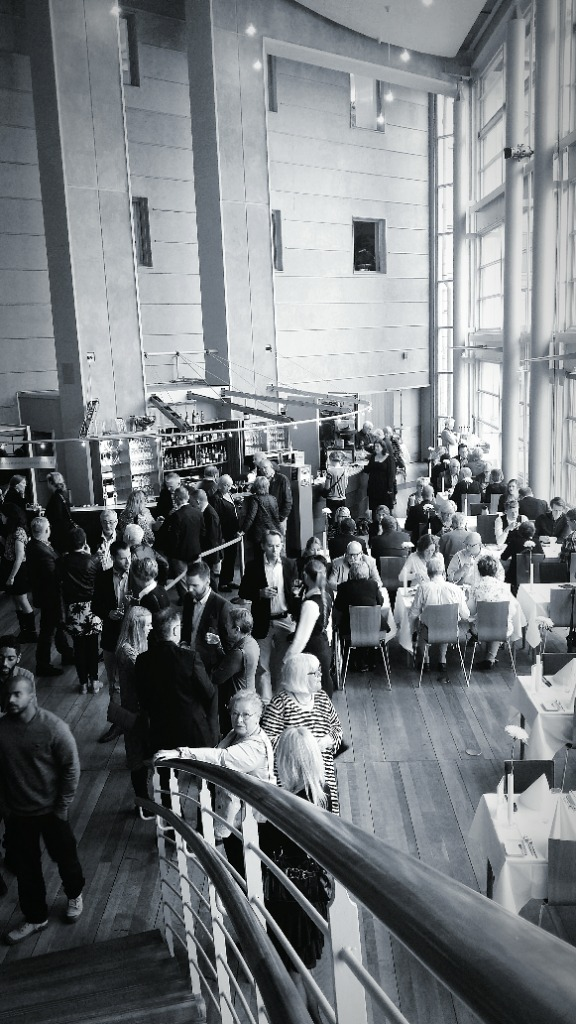
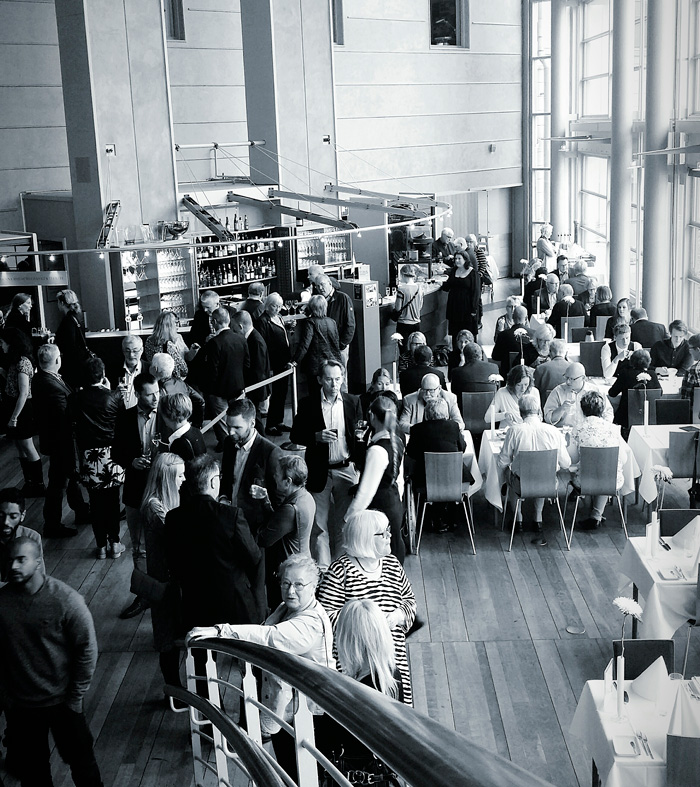
style: modify grid order on mobile to display text before image

diff --git a/style.css b/style.css
@@ -641,6 +641,14 @@ footer p {
         grid-template-columns: 1fr;
     }
     
+    .about-text {
+        order: 1;
+    }
+    
+    .about-image {
+        order: 2;
+    }
+    
     .floating-badge {
         right: 20px;
         bottom: -20px;
